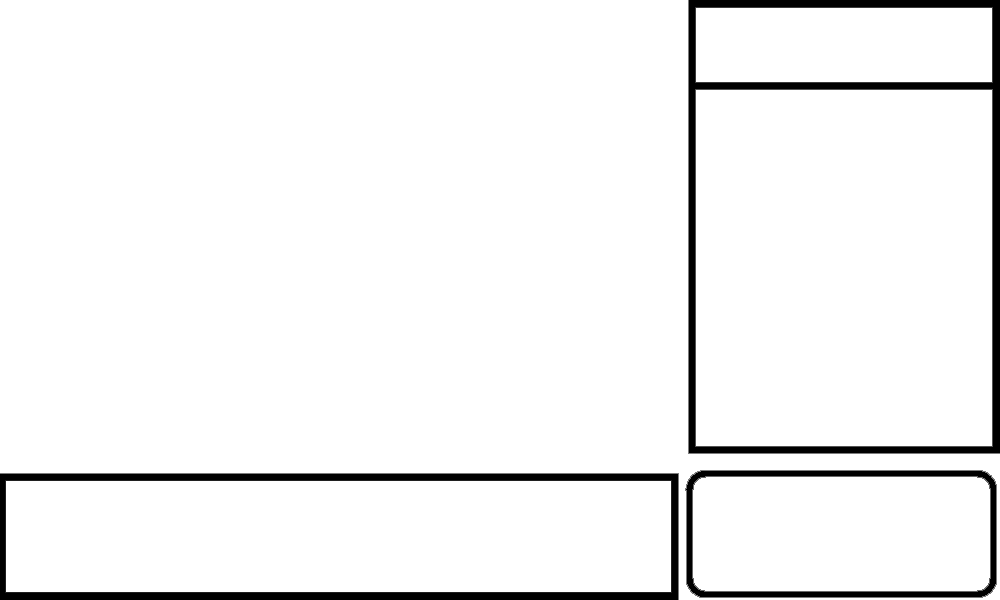
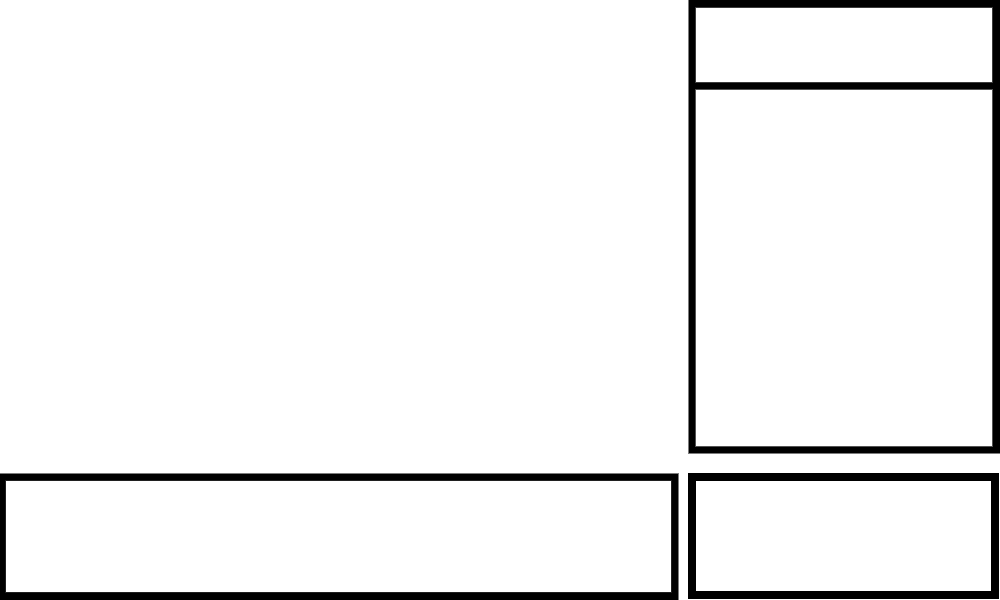
Button positions fixed
Buttons now correctly fit into new UI

Changed region(s): [[0.682, 0.78, 1.0, 1.0]]

diff --git a/RM_launcher_2018/RM_Launcher.py b/RM_launcher_2018/RM_Launcher.py
@@ -65,23 +65,23 @@ while open == True:
 
     #get mouse pos and highlights if over button
     mouse = pygame.mouse.get_pos()
-    if 690+150 > mouse[0] > 690 and 475+100 > mouse[1] > 475:
-        pygame.draw.rect(display, bright_green,(690,475,150,118))
-        pygame.draw.rect(display, red,(840,475,150,118))
-    elif 840+150 > mouse[0] > 840 and 475+100 > mouse[1] > 475:
-        pygame.draw.rect(display, bright_red,(840,475,150,118))
-        pygame.draw.rect(display, green,(690,475,150,118))
+    if 694+150 > mouse[0] > 694 and 477+100 > mouse[1] > 477:
+        pygame.draw.rect(display, bright_green,(694,477,150,118))
+        pygame.draw.rect(display, red,(844,477,150,118))
+    elif 844+150 > mouse[0] > 840 and 477+100 > mouse[1] > 475:
+        pygame.draw.rect(display, bright_red,(844,477,150,118))
+        pygame.draw.rect(display, green,(694,477,150,118))
     else:
-        pygame.draw.rect(display, green,(690,475,150,118))
-        pygame.draw.rect(display, red,(840,475,150,118))
+        pygame.draw.rect(display, green,(694,477,150,118))
+        pygame.draw.rect(display, red,(844,477,150,118))
 
     launch_text = smallText.render("Launch", 1, (255,255,255))
-    display.blit(launch_text,(690+(150/7), 525))
+    display.blit(launch_text,(694+(150/7), 527))
 
     display.blit(image_1,(1,1))
 
     exit_text = smallText.render("Quit",1,(255,255,255))
-    display.blit(exit_text,(840+(150/5), 525))
+    display.blit(exit_text,(844+(150/5), 527))
 
 
 
